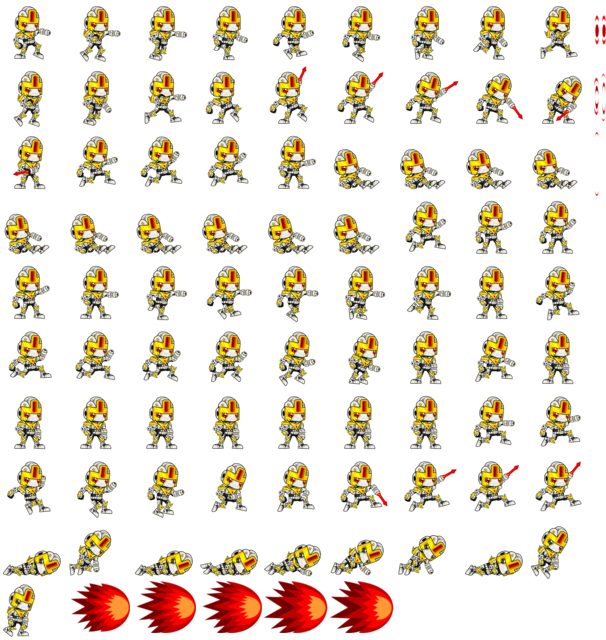
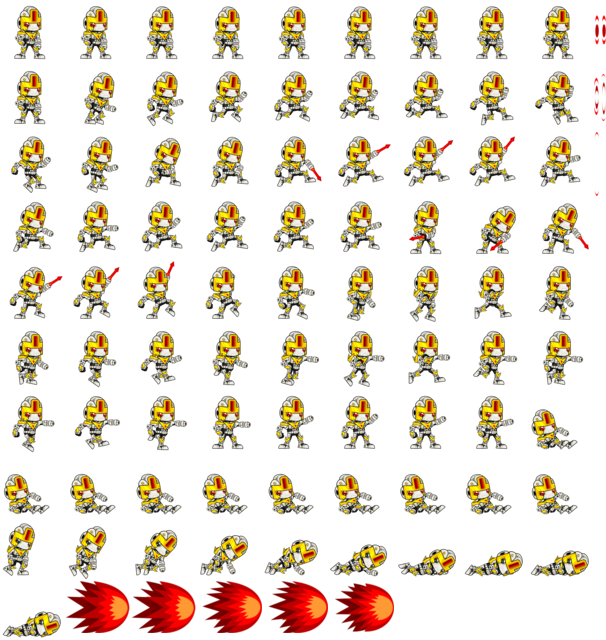
fix: pack equal-size sprites in the same place on every platform
The packer sorted sprites by size with std::sort, which leaves sprites
of equal size in an order that differs between standard libraries. On
macOS (libc++) the same input packed its equal-size frames into other
places than on Linux (libstdc++), so asset baselines failed in CI.

- Size sorts in packing, --incremental, --sort name and spratconvert's
  auto-animation frames are stable: ties keep input order (natural name
  order for folders, a list's own order).
- Regenerate the five Streets of Fight baselines and the README example
  images; atlas sizes and packing efficiency are unchanged.
- folder_order_test compares against the folder's physical path; on
  macOS /var is a symlink to /private/var.
- Version: v0.19.5.

Changed region(s): [[0.0, 0.0, 0.9802, 1.0], [0.3267, 0.0, 0.4158, 0.2812]]

diff --git a/src/commands/spratlayout/packing.cpp b/src/commands/spratlayout/packing.cpp
@@ -196,6 +196,10 @@ bool pack_binary_tree(std::vector<Sprite>& sprites, int width, int height, int p
     return try_pack(root, sprites, padding, allow_rotate);
 }
 
+// The sorts below compare sizes only, so sprites of equal size keep their input order (the
+// natural file-name order of a folder, or a list's own order). std::sort leaves ties in an
+// order of its own, which differs between standard libraries: the same sprites packed into
+// different places on Linux, macOS and Windows.
 bool sort_sprites_by_mode(std::vector<Sprite>& sprites, SortMode mode) {
     auto cmp_height = [](const Sprite& a, const Sprite& b) {
         if (a.h != b.h) { return a.h > b.h;
@@ -237,19 +241,19 @@ bool sort_sprites_by_mode(std::vector<Sprite>& sprites, SortMode mode) {
 
     switch (mode) {
         case SortMode::Height:
-            std::ranges::sort(sprites, cmp_height);
+            std::ranges::stable_sort(sprites, cmp_height);
             return true;
         case SortMode::Width:
-            std::ranges::sort(sprites, cmp_width);
+            std::ranges::stable_sort(sprites, cmp_width);
             return true;
         case SortMode::Area:
-            std::ranges::sort(sprites, cmp_area);
+            std::ranges::stable_sort(sprites, cmp_area);
             return true;
         case SortMode::MaxSide:
-            std::ranges::sort(sprites, cmp_max_side);
+            std::ranges::stable_sort(sprites, cmp_max_side);
             return true;
         case SortMode::Perimeter:
-            std::ranges::sort(sprites, cmp_perimeter);
+            std::ranges::stable_sort(sprites, cmp_perimeter);
             return true;
         case SortMode::None:
             return true;
@@ -263,7 +267,7 @@ void sort_sprites_stable(std::vector<Sprite>& sprites, StableMetric metric) {
     };
     switch (metric) {
         case StableMetric::Area:
-            std::ranges::sort(sprites, [&](const Sprite& a, const Sprite& b) {
+            std::ranges::stable_sort(sprites, [&](const Sprite& a, const Sprite& b) {
                 const long long area_a = static_cast<long long>(a.w) * a.h;
                 const long long area_b = static_cast<long long>(b.w) * b.h;
                 if (area_a != area_b) { return area_a > area_b; }
@@ -273,7 +277,7 @@ void sort_sprites_stable(std::vector<Sprite>& sprites, StableMetric metric) {
             });
             break;
         case StableMetric::MaxSide:
-            std::ranges::sort(sprites, [&](const Sprite& a, const Sprite& b) {
+            std::ranges::stable_sort(sprites, [&](const Sprite& a, const Sprite& b) {
                 const int max_a = std::max(a.w, a.h);
                 const int max_b = std::max(b.w, b.h);
                 if (max_a != max_b) { return max_a > max_b; }
@@ -284,21 +288,21 @@ void sort_sprites_stable(std::vector<Sprite>& sprites, StableMetric metric) {
             });
             break;
         case StableMetric::Height:
-            std::ranges::sort(sprites, [&](const Sprite& a, const Sprite& b) {
+            std::ranges::stable_sort(sprites, [&](const Sprite& a, const Sprite& b) {
                 if (a.h != b.h) { return a.h > b.h; }
                 if (a.w != b.w) { return a.w > b.w; }
                 return path_cmp(a, b);
             });
             break;
         case StableMetric::Width:
-            std::ranges::sort(sprites, [&](const Sprite& a, const Sprite& b) {
+            std::ranges::stable_sort(sprites, [&](const Sprite& a, const Sprite& b) {
                 if (a.w != b.w) { return a.w > b.w; }
                 if (a.h != b.h) { return a.h > b.h; }
                 return path_cmp(a, b);
             });
             break;
         case StableMetric::Perimeter:
-            std::ranges::sort(sprites, [&](const Sprite& a, const Sprite& b) {
+            std::ranges::stable_sort(sprites, [&](const Sprite& a, const Sprite& b) {
                 const int p_a = a.w + a.h;
                 const int p_b = b.w + b.h;
                 if (p_a != p_b) { return p_a > p_b; }
@@ -561,8 +565,8 @@ bool pack_incremental_maxrects(
         std::swap(free_rects, next_free);
     }
 
-    // Sort new sprites by area descending
-    std::ranges::sort(new_sprites, [](const Sprite& a, const Sprite& b) {
+    // Sort new sprites by area descending (stable: see sort_sprites_by_mode)
+    std::ranges::stable_sort(new_sprites, [](const Sprite& a, const Sprite& b) {
         return (a.w * a.h) > (b.w * b.h);
     });
 

diff --git a/src/commands/spratconvert_command.cpp b/src/commands/spratconvert_command.cpp
@@ -1675,7 +1675,9 @@ int run_spratconvert(int argc, char** argv) {
             if (frames.size() > 1) {
                 // Layout order is packing order (and aliases come last), so order
                 // frames by name: run_2 before run_10.
-                std::sort(frames.begin(), frames.end(), [&](int a, int b) {
+                // Stable, so names natural order can't tell apart ("run_02", "run_2") keep
+                // layout order on every platform.
+                std::stable_sort(frames.begin(), frames.end(), [&](int a, int b) {
                     return sprat::core::compare_natural(sprite_names[static_cast<size_t>(a)],
                                                         sprite_names[static_cast<size_t>(b)]) < 0;
                 });

diff --git a/src/commands/spratlayout_command.cpp b/src/commands/spratlayout_command.cpp
@@ -1048,7 +1048,7 @@ int run_spratlayout(int argc, char** argv) {
     const bool enforce_name_order   = (args.has_frame_sort_override && args.frame_sort == FrameSort::Name);
     const bool enforce_stable_order = (args.has_frame_sort_override && args.frame_sort == FrameSort::Stable);
     if (enforce_name_order || enforce_stable_order) {
-        std::ranges::sort(sources, [](const ImageSource& lhs, const ImageSource& rhs) {
+        std::ranges::stable_sort(sources, [](const ImageSource& lhs, const ImageSource& rhs) {
             int cmp = sprat::core::compare_natural(lhs.path, rhs.path);
             if (cmp != 0) {
                 return cmp < 0;
